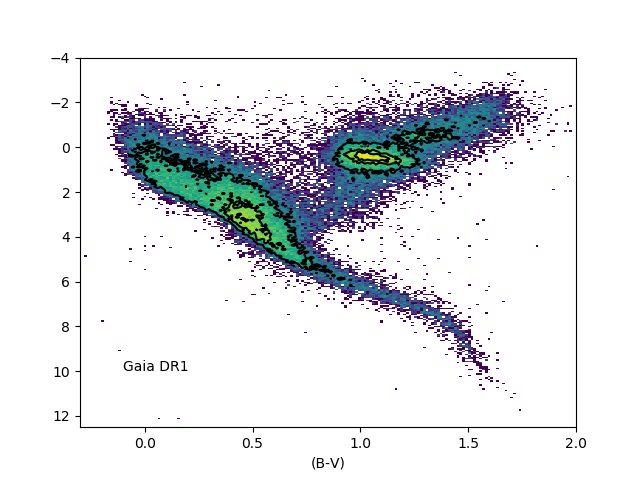
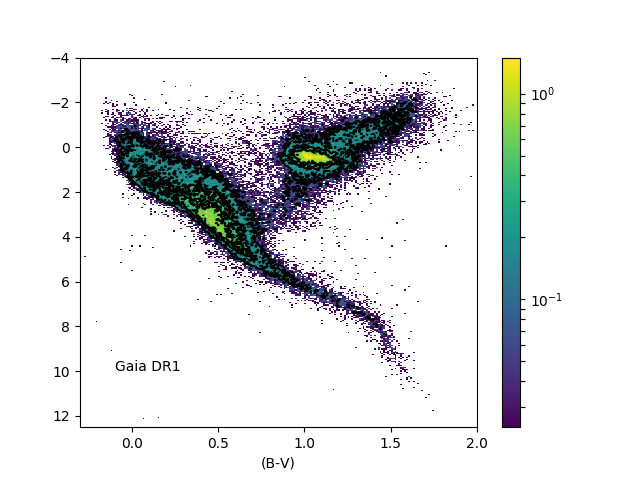
Played around with normalizing density and level values to see if contour plots would change

diff --git a/Reproducing Figures Gaia DR1 paper/figure 5.py b/Reproducing Figures Gaia DR1 paper/figure 5.py
@@ -2,6 +2,7 @@ import astropy.units as u
 from astropy.coordinates.sky_coordinate import SkyCoord
 from astropy.units import Quantity
 from astropy.io.votable import parse
+from astropy.table import Table
 from astroquery.gaia import Gaia
 from matplotlib.colors import LogNorm
 import matplotlib.pyplot as plt
@@ -25,10 +26,11 @@ r = job.get_results()
 x=r['g_min_ks']
 y_gaia=r['g_mag_abs']
 
-counts_gaia,xbins_gaia,ybins_gaia,image_gaia = plt.hist2d(x,y_gaia,bins=250
+counts_gaia,xbins_gaia,ybins_gaia,image_gaia = plt.hist2d(x,y_gaia,bins=250,normed=True
                                       ,norm=LogNorm()
                                       , cmap = plt.cm.viridis)
-plt.contour(counts_gaia.transpose(), extent=[xbins_gaia.min(),xbins_gaia.max(),ybins_gaia.min(),ybins_gaia.max()], colors='k', linewidth=0.01, levels = [10,30,50,70,90])
+plt.colorbar()
+plt.contour(counts_gaia.transpose(), extent=[xbins_gaia.min(),xbins_gaia.max(),ybins_gaia.min(),ybins_gaia.max()], colors='k', linewidth=0.01, levels = [0.1])
 plt.text(-0.1, 10.0, 'Gaia DR1')
 plt.xlim(-0.6,4.0)
 plt.ylim(-3.0,12.5)

diff --git a/Reproducing Figures Gaia DR1 paper/figure 3c.py b/Reproducing Figures Gaia DR1 paper/figure 3c.py
@@ -20,10 +20,11 @@ r = job.get_results()
 x=r['b_v']
 y_gaia=r['g_mag_abs']
 
-counts_gaia,xbins_gaia,ybins_gaia,image_gaia = plt.hist2d(x,y_gaia,bins=250
+counts_gaia,xbins_gaia,ybins_gaia,image_gaia = plt.hist2d(x,y_gaia,bins=300,normed=True
                                       ,norm=LogNorm()
                                       , cmap = plt.cm.viridis)
-plt.contour(counts_gaia.transpose(), extent=[xbins_gaia.min(),xbins_gaia.max(),ybins_gaia.min(),ybins_gaia.max()], colors='k', linewidth=0.01, levels = [10,30,50])
+plt.colorbar()
+plt.contour(counts_gaia.transpose(), extent=[xbins_gaia.min(),xbins_gaia.max(),ybins_gaia.min(),ybins_gaia.max()], colors='k', linewidth=0.01, levels = [0.1,0.3,0.5])
 plt.text(-0.1, 10.0, 'Gaia DR1')
 plt.xlim(-0.3,2.0)
 plt.ylim(-4.0,12.5)
